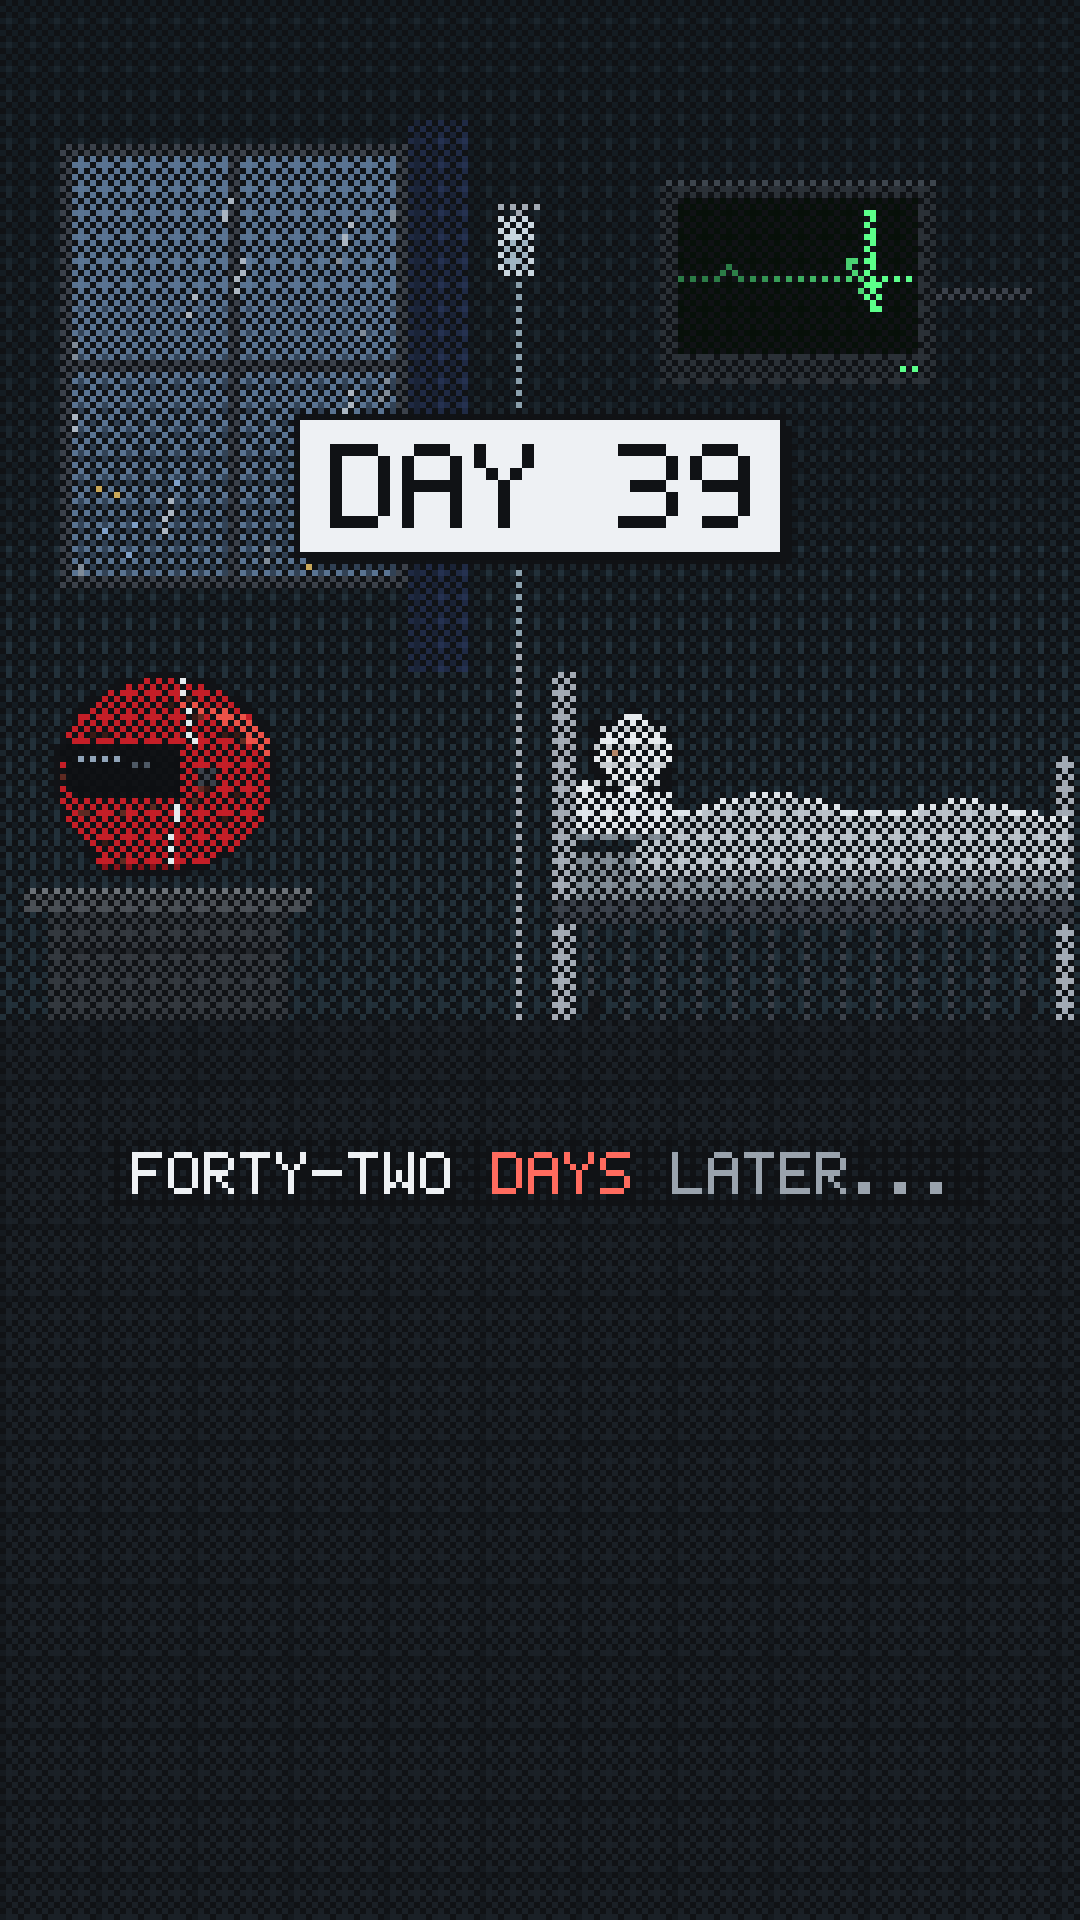
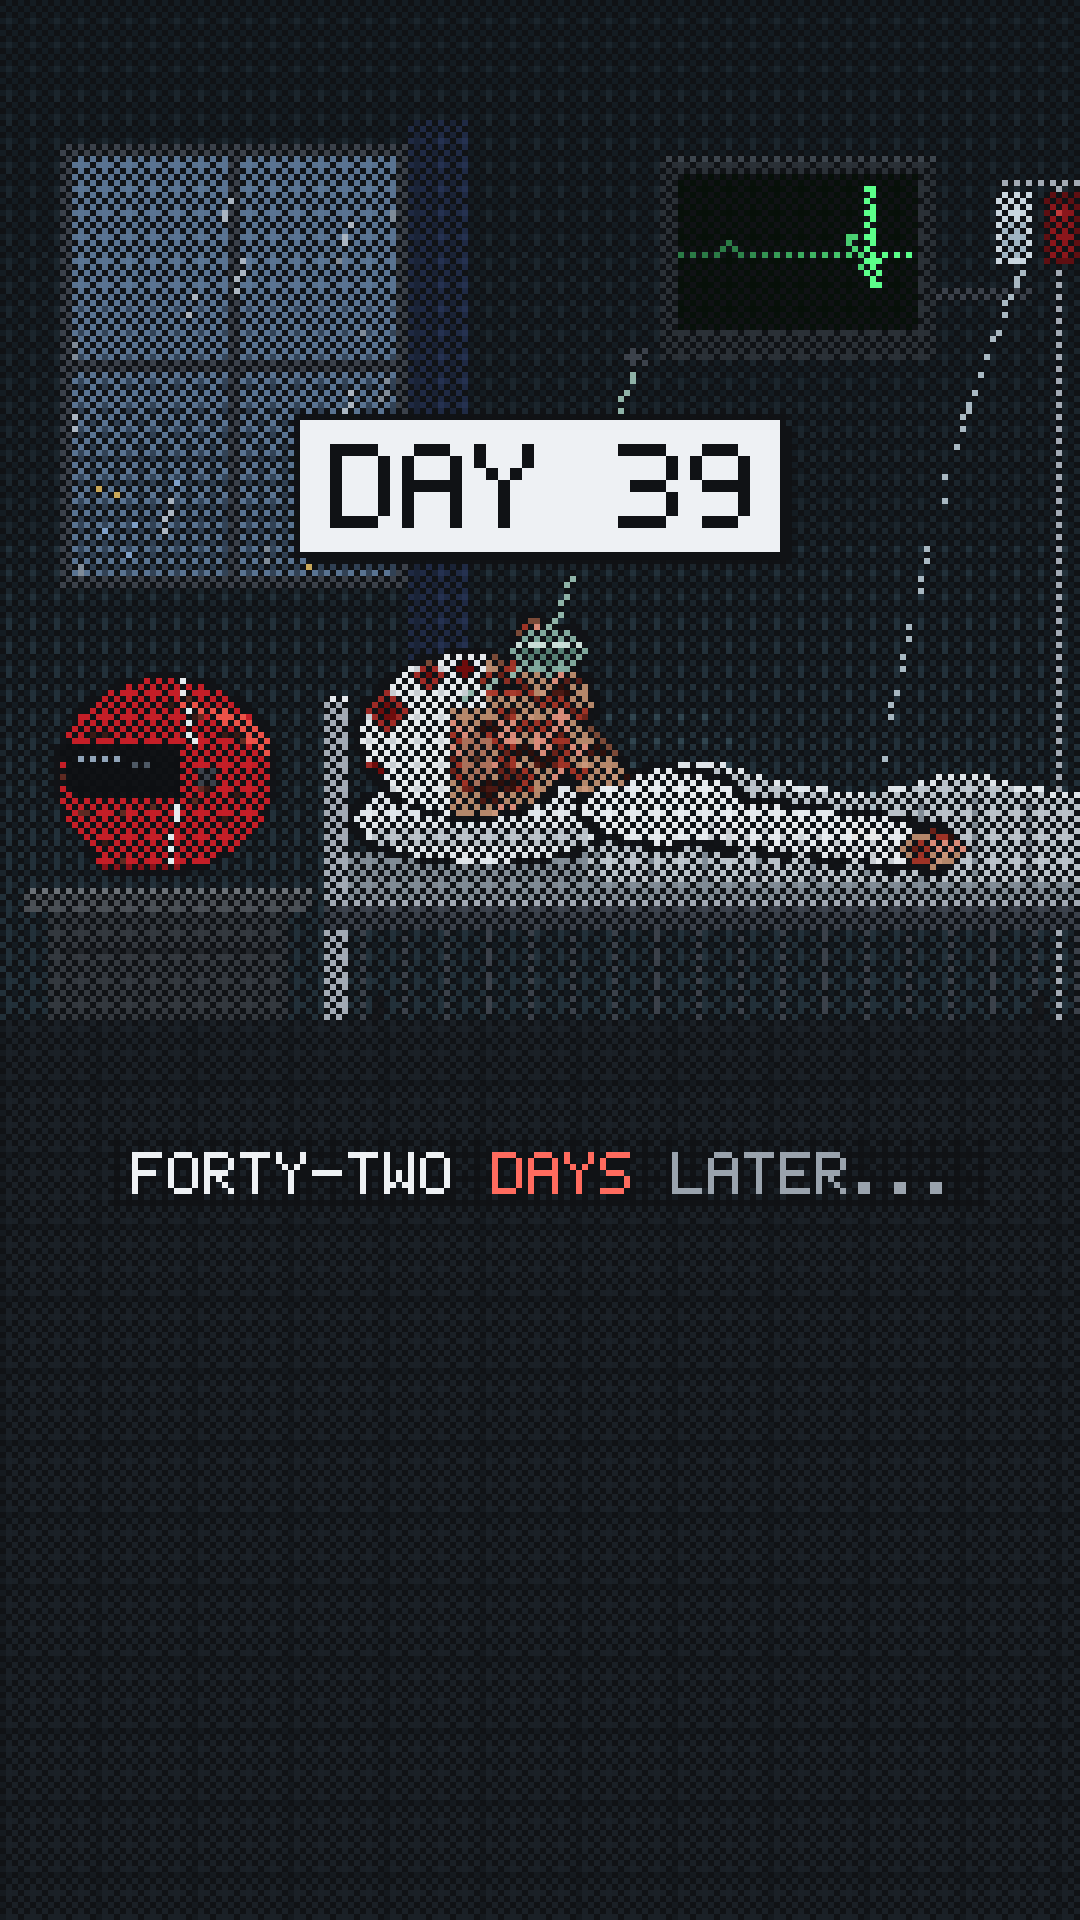
Lauda pixel short: scene 01 shows his injuries clearly
Claude-Session: https://claude.ai/code/session_01NZ8nhbb7fFGrgoApo6xoS5

Changed region(s): [[0.3056, 0.0938, 1.0, 0.5312], [0.6111, 0.0938, 0.8556, 0.1875], [0.4583, 0.0938, 0.4889, 0.1562]]

diff --git a/videos/lauda-pixel/scene/scenes.js b/videos/lauda-pixel/scene/scenes.js
@@ -26,30 +26,76 @@ function buildHospital() {
   S.rect(38, 26, 2, 70, P.greyD); S.rect(12, 60, 54, 2, P.greyD);
   // curtain folds
   for (let y = 20; y < 112; y++) for (let x = 68; x < 78; x++) S.px(x, y, (x % 3 === 0) ? "#1a2336" : dith(x, y, 0.5) ? "#253150" : "#1f2a44");
-  // IV stand with a drip bag
-  S.rect(86, 34, 1, 136, P.metal);
-  S.rect(82, 34, 9, 1, P.metal);
-  S.rect(83, 36, 6, 10, "#c9d6df"); S.rect(84, 40, 4, 5, "#9fb4c2");
-  S.rect(86, 46, 1, 60, "#8aa0ad");
-  // wall monitor on an arm
+  // wall monitor on an arm (bed sits below it)
   S.rect(150, 48, 22, 2, P.greyD);
-  S.rect(110, 30, 46, 34, "#2a3036"); S.rect(110, 30, 46, 1, "#3d454d");
-  S.rect(113, 33, 40, 26, P.screen);
-  S.rect(150, 61, 3, 1, P.ecg);
-  // bed: headboard, frame, mattress, pillow, patient under the sheet, bandaged head
-  S.rect(92, 112, 4, 58, P.metal); S.rect(176, 126, 3, 44, P.metal);
-  S.rect(92, 150, 87, 4, P.greyD);
-  S.rect(96, 142, 82, 8, P.sheetD);
-  const sheetTop = (x) => 136 - Math.round(4 * Math.exp(-(((x - 128) / 12) ** 2)) + 3 * Math.exp(-(((x - 160) / 9) ** 2)));
-  for (let x = 106; x < 178; x++) for (let y = sheetTop(x); y < 146; y++) S.px(x, y, y === sheetTop(x) ? P.sheetH : dith(x, y, 0.35) ? P.sheetD : P.sheet);
-  S.rect(96, 130, 16, 10, P.sheetH); S.rect(96, 139, 16, 1, P.sheetD);
-  const head = new Sprite(16, 14);
-  head.ellipse(8, 7, 6, 6, P.white);
-  for (let i = 0; i < 4; i++) head.rect(2, 3 + i * 3, 12, 1, "#c7ccd1");
-  head.set(4, 7, P.skin); head.set(5, 7, P.skin);
-  head.outline(P.out).blit(S, 97, 118);
-  for (let x = 98; x < 176; x += 6) S.rect(x, 154, 1, 16, P.greyD);
-  S.rect(98, 166, 2, 4, P.tyre); S.rect(170, 166, 2, 4, P.tyre);
+  S.rect(110, 26, 46, 34, "#2a3036"); S.rect(110, 26, 46, 1, "#3d454d");
+  S.rect(113, 29, 40, 26, P.screen);
+  // IV stand at the foot of the bed: a saline bag and a darker bag of blood
+  S.rect(176, 30, 1, 140, P.metal); S.rect(166, 30, 14, 1, P.metal);
+  S.rect(166, 32, 6, 12, "#c9d6df"); S.rect(167, 37, 4, 6, "#9fb4c2");
+  S.rect(174, 32, 6, 12, "#5e0f12"); S.rect(175, 34, 4, 9, "#8a161b"); S.px(176, 35, "#c23a3a");
+  // a cold pool of light over the patient
+  for (let y = 70; y < 170; y++) for (let x = 54; x < 180; x++) {
+    const d = ((x - 108) / 64) ** 2 + ((y - 128) / 46) ** 2;
+    if (d < 1 && dith(x, y, (1 - d) * 0.5)) S.px(x, y, mix(P.room2, "#3c5560", 0.55));
+  }
+  // bed frame, mattress, rails
+  S.rect(54, 116, 4, 54, P.metal); S.rect(54, 116, 4, 1, P.white);
+  S.rect(54, 150, 126, 5, P.greyD); S.rect(54, 150, 126, 1, P.metal);
+  S.rect(58, 142, 122, 8, P.sheetD);
+  for (let x = 60; x < 180; x += 7) S.rect(x, 155, 1, 15, P.greyD);
+  S.rect(62, 166, 2, 4, P.tyre); S.rect(172, 166, 2, 4, P.tyre);
+  // sheet over the body, with folds
+  const sheetTop = (x) => 132 - Math.round(5 * Math.exp(-(((x - 116) / 14) ** 2)) + 3 * Math.exp(-(((x - 160) / 10) ** 2)));
+  for (let x = 98; x < 180; x++) for (let y = sheetTop(x); y < 147; y++) S.px(x, y, y === sheetTop(x) ? P.sheetH : (x % 9 === 0 && y > sheetTop(x) + 2) ? P.sheetD : dith(x, y, 0.3) ? P.sheetD : P.sheet);
+  // pillow
+  const pillow = new Sprite(44, 16);
+  pillow.ellipse(22, 8, 21, 7, P.sheetH); pillow.rect(4, 10, 36, 3, P.sheet);
+  pillow.outline(P.out).blit(S, 58, 128);
+  // the patient, lying face-up: head in profile (crown on the pillow, chin to the right),
+  // bandaged and burned, under an oxygen mask, a bandaged arm on the sheet
+  const pat = new Sprite(124, 72);
+  // burns in patches (3×2-pixel blocks) over skin, so the face shape still reads
+  const burn = (x, y) => {
+    const h = hash(Math.floor(x / 3) * 7 + 3, Math.floor(y / 2) * 13 + 1), fine = hash(x, y);
+    if (h < 0.28) return fine < 0.7 ? "#9e3326" : "#6a2219";
+    if (h < 0.42) return fine < 0.6 ? "#4a1913" : "#2e100c";
+    if (h < 0.55) return "#d88a78";
+    return fine < 0.85 ? P.skin : "#c9967a";
+  };
+  pat.ellipse(60, 52, 13, 6, P.white); // gauze over neck and shoulder
+  pat.ellipse(28, 40, 18, 13, "skull"); // head lying face-up: crown on the pillow (left), chin right
+  pat.poly([[34, 30], [37, 21], [40, 21], [42, 30]], "face"); // nose pointing up
+  pat.poly([[41, 30], [45, 29], [48, 32], [49, 37], [44, 40]], "face"); // lips and chin
+  pat.poly([[44, 38], [50, 40], [56, 48], [46, 50]], "face"); // throat
+  for (let y = 0; y < pat.h; y++) for (let x = 0; x < pat.w; x++) {
+    const c = pat.get(x, y);
+    if (c === "skull") pat.set(x, y, x < 25 ? ((x + y) % 4 === 0 ? "#c7ccd1" : P.white) : burn(x, y));
+    else if (c === "face") pat.set(x, y, burn(x, y));
+  }
+  for (let y = 26; y < 36; y++) for (let x = 24; x < 31; x++) if (pat.get(x, y)) pat.set(x, y, (x + y) % 4 ? P.white : "#c7ccd1"); // forehead wrap
+  for (const [bx, by, r] of [[14, 36, 3], [21, 30, 2], [12, 46, 2], [27, 29, 2]]) // blood soaking through
+    for (let y = -r; y <= r; y++) for (let x = -r; x <= r; x++) if (x * x + y * y <= r * r && pat.get(bx + x, by + y)) pat.set(bx + x, by + y, x * x + y * y < r ? "#6e0c0c" : "#9e2a26");
+  // profile edge in a darker skin tone so forehead, nose, lips and chin read clearly
+  for (let y = 1; y < pat.h - 1; y++) for (let x = 1; x < pat.w - 1; x++) {
+    const c = pat.get(x, y);
+    if (c && c !== P.white && c !== "#c7ccd1" && !pat.get(x, y - 1)) pat.set(x, y, "#7a4a38");
+  }
+  pat.ellipse(29, 44, 3, 4, "#a8705a"); pat.set(29, 44, "#5a3326"); // ear
+  pat.rect(44, 31, 3, 1, "#5a1f18"); // cracked lips at the mask's edge
+  pat.rect(31, 32, 5, 1, P.ink); pat.rect(30, 31, 7, 1, "#8c2f24"); pat.rect(31, 33, 5, 1, "#a83a2c"); // swollen shut eye
+  pat.ellipse(41, 26, 6, 4, "#7fa79b"); pat.ellipse(41, 26, 4, 2, "#557f73"); pat.rect(36, 25, 11, 1, "#c9ddd7"); // oxygen mask
+  for (let i = 0; i < 12; i++) pat.set(36 - i, 29 + Math.round(i * 0.5), "#8fb3a8"); // mask strap
+  pat.thick(66, 54, 100, 58, 3, P.white); // bandaged arm
+  for (let x = 68; x < 100; x += 3) pat.rect(x, 55 + Math.round((x - 66) * 0.12), 1, 4, "#c7ccd1");
+  pat.ellipse(105, 59, 5, 3, P.skin);
+  for (let y = 55; y < 64; y++) for (let x = 99; x < 112; x++) if (pat.get(x, y) === P.skin) pat.set(x, y, burn(x, y));
+  pat.rect(92, 56, 5, 2, "#e8e8e8"); // tape over the IV line
+  pat.outline(P.out).blit(S, 50, 82);
+  // oxygen tube to the wall, IV line to the drip
+  for (let i = 0; i <= 40; i++) { const k = i / 40; S.px(lerp(91, 106, k), lerp(105, 60, k) + Math.sin(k * 6) * 2, "#8fb3a8"); }
+  for (let i = 0; i <= 60; i++) { const k = i / 60; S.px(lerp(144, 170, k), lerp(138, 44, k) - Math.sin(k * 3.14) * 10, "#a8b8c2"); }
+  S.rect(104, 58, 4, 3, P.greyD);
   // floor tiles
   for (let y = 170; y < LH; y++) for (let x = 0; x < LW + 12; x++) S.px(x, y, (x % 16 === 0 || y % 12 === 0) ? "#151a1f" : dith(x, y, 0.3) ? "#1d242a" : "#1a2026");
   // bedside table
@@ -323,7 +369,7 @@ export function makeScenes() {
       blitBg(S, hospital, pan);
       S.ox = -pan;
       drawWindowGlass(S, t);
-      drawECG(S, t, 113, 33, 40, 26, { bpm: 54 });
+      drawECG(S, t, 113, 29, 40, 26, { bpm: 54 });
       helmetSprite(1.4, true).blit(S, HELMET_POS[0], HELMET_POS[1]);
       S.ox = 0;
     },
@@ -334,7 +380,7 @@ export function makeScenes() {
       if (u < cut) {
         blitBg(S, hospital);
         drawWindowGlass(S, t, 22); // day/night flicker through the window
-        drawECG(S, t, 113, 33, 40, 26, { bpm: 72 });
+        drawECG(S, t, 113, 29, 40, 26, { bpm: 72 });
         helmetSprite(1.4, true).blit(S, HELMET_POS[0], HELMET_POS[1]);
         S.dithRect(0, 0, LW, LH, P.ink, 0.45);
         const day = Math.min(42, Math.round(42 * inOut((u - 0.15) / Math.max(0.3, cut - 0.45))));

diff --git a/videos/lauda-pixel/boards/storyboard.html b/videos/lauda-pixel/boards/storyboard.html
@@ -24,7 +24,7 @@
   <div class="title">01: The hook</div>
   <div class="time">0.0 to 3.2s</div>
   <p class="vo">“Doctors didn't think this man would survive.”</p>
-  <p class="words">Hospital at night. The scorched red helmet on the bedside table, the patient bandaged in bed, rain on the window. The camera drifts left.</p>
+  <p class="words">Hospital at night, close on the bed: his head bandaged with blood soaking through, burns across his face, an oxygen mask, a bandaged arm with a burned hand, a blood bag on the drip. The scorched helmet sits on the bedside table; rain on the window.</p>
   <p class="meta"><b>Sound:</b> 8-bit heart-monitor beeps, soft rain behind glass, chiptune bed fades in</p>
 </div>
 <div class="frame">

diff --git a/videos/lauda-pixel/STORYBOARD.md b/videos/lauda-pixel/STORYBOARD.md
@@ -7,7 +7,7 @@ message: "The bravest thing Niki Lauda ever did was get out of the car"
 ## Frame 1: The hook (0.0-3.2s)
 
 - status: animated
-- scene: Hospital at night. The scorched red helmet on the bedside table, the patient bandaged in bed, rain on the window. The camera drifts left.
+- scene: Hospital at night, close on the bed: his head bandaged with blood soaking through, burns across his face, an oxygen mask, a bandaged arm with a burned hand, a blood bag on the drip. The scorched helmet sits on the bedside table; rain on the window.
 - voiceover: Doctors didn't think this man would survive.
 - sound: 8-bit heart-monitor beeps, soft rain behind glass, chiptune bed fades in
 
